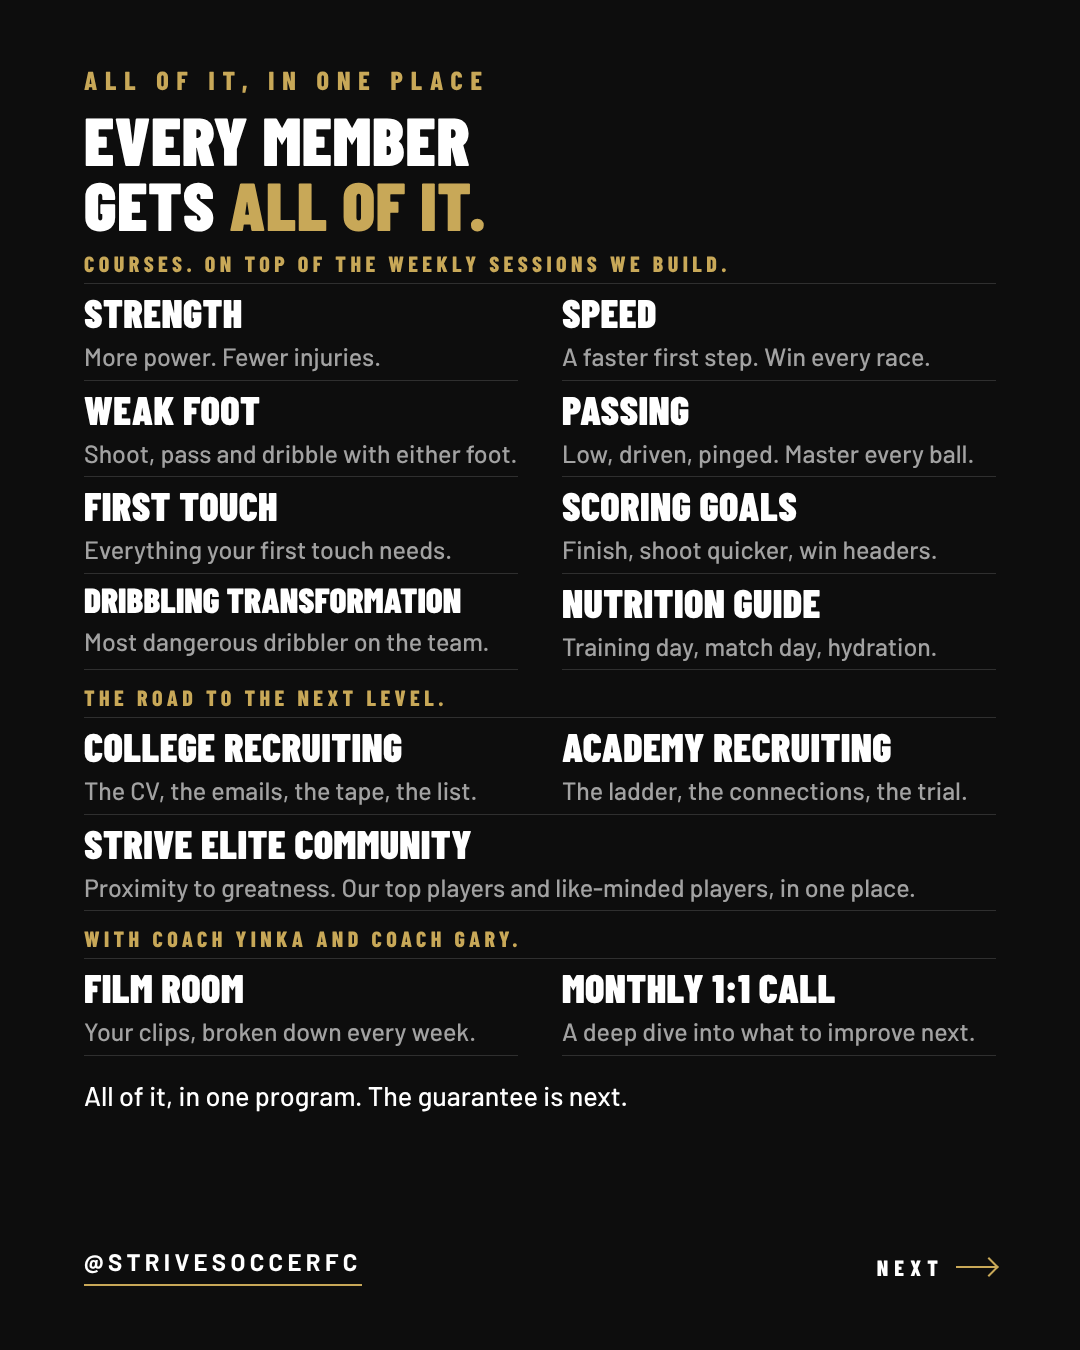
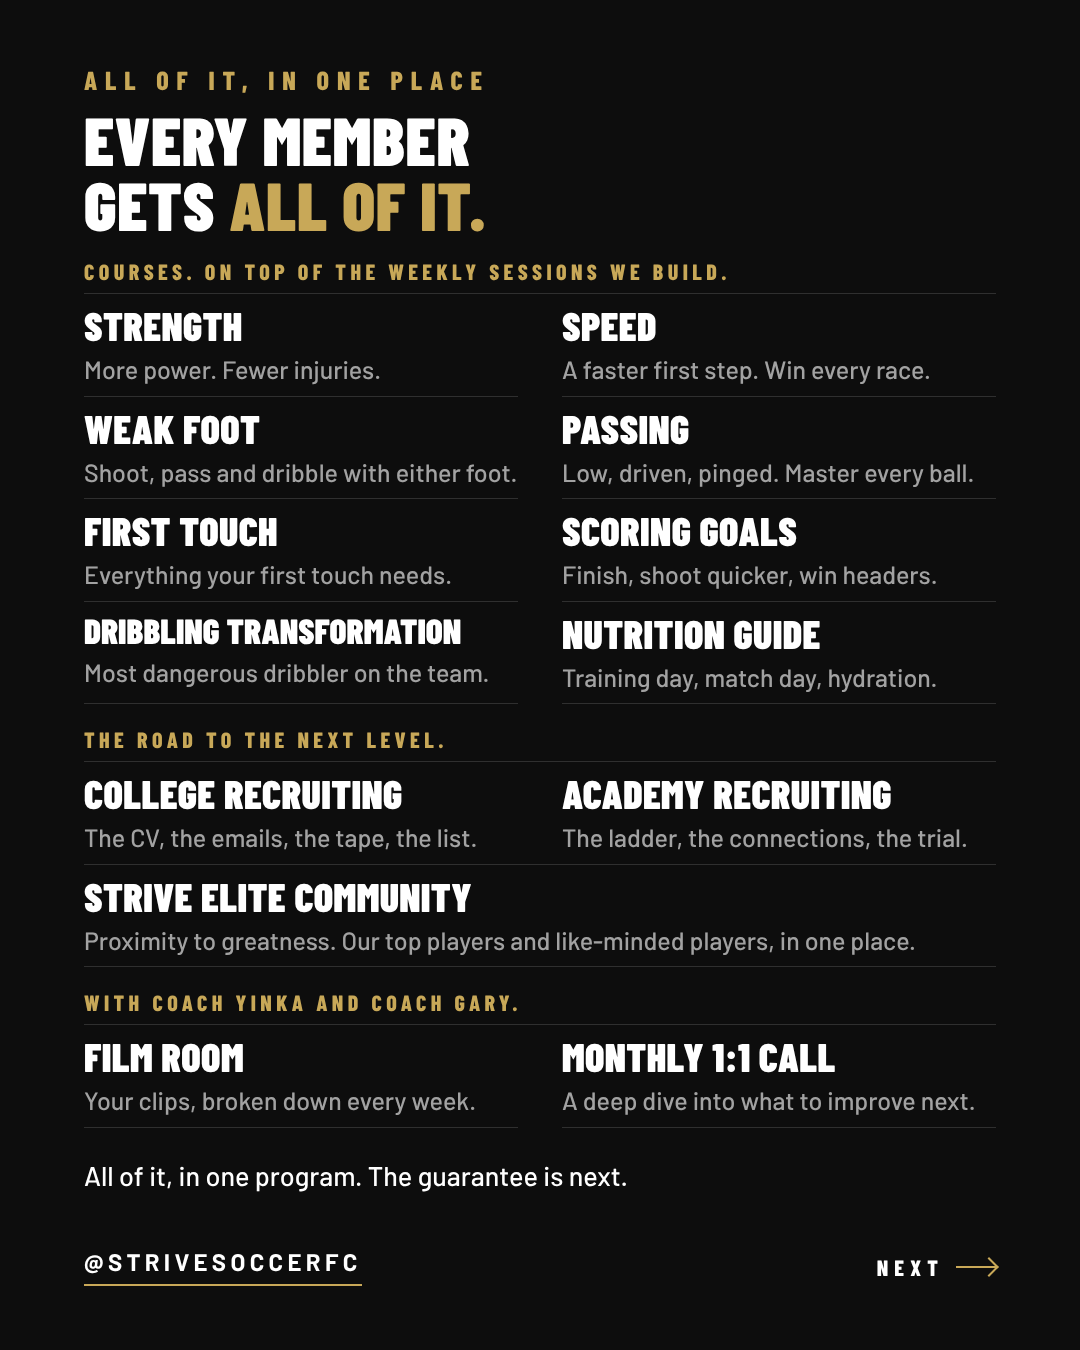
Offer carousel: recap rows spread to fill the slide
Claude-Session: https://claude.ai/code/session_011JsCTTjCbUkHbTuWTKQSXJ

diff --git a/marketing/announcement/offer-post/recap.html b/marketing/announcement/offer-post/recap.html
@@ -9,18 +9,18 @@
 html,body{width:1080px;height:1350px;background:#0d0d0d;overflow:hidden}
 body{font-family:'Barlow',sans-serif;color:#fff;position:relative;padding:64px 84px 0}
 .gold{color:#c8a858}
-.sec{font-family:'Barlow Condensed';font-weight:800;font-size:22px;letter-spacing:.2em;text-transform:uppercase;color:#c8a858;margin:14px 0 0;padding-bottom:7px;border-bottom:1px solid rgba(255,255,255,.14)}
+.sec{font-family:'Barlow Condensed';font-weight:800;font-size:22px;letter-spacing:.2em;text-transform:uppercase;color:#c8a858;margin:22px 0 0;padding-bottom:9px;border-bottom:1px solid rgba(255,255,255,.14)}
 .grid .item:nth-child(-n+2){border-top:0}
 .sec:first-of-type{margin-top:24px}
 .eyebrow{font-family:'Barlow Condensed';font-weight:800;font-size:26px;letter-spacing:.3em;text-transform:uppercase;color:#c8a858}
 h1{font-family:'Barlow Condensed';font-weight:900;font-size:68px;line-height:.95;text-transform:uppercase;margin-top:12px;letter-spacing:.01em}
 .grid{margin-top:0;display:grid;grid-template-columns:1fr 1fr;column-gap:44px}
-.item{padding:8px 0 7px;border-top:1px solid rgba(255,255,255,.14)}
+.item{padding:11px 0 10px;border-top:1px solid rgba(255,255,255,.14)}
 .item b{display:block;font-family:'Barlow Condensed';font-weight:900;font-size:40px;line-height:1;text-transform:uppercase;letter-spacing:.01em}
 .item p{margin-top:8px;font-size:25px;line-height:1.3;color:rgba(255,255,255,.62)}
 .item.last{border-bottom:1px solid rgba(255,255,255,.14)}
 .item.wide{grid-column:1/-1}
-.all{margin-top:22px;font-size:27px;line-height:1.32;color:#fff;font-weight:500}
+.all{margin-top:30px;font-size:27px;line-height:1.32;color:#fff;font-weight:500}
 .price{margin-top:12px;font-family:'Barlow Condensed';font-weight:800;font-size:34px;line-height:1.1;text-transform:uppercase;letter-spacing:.02em}
 .price span{color:#c8a858}
 .bar{position:absolute;left:84px;right:84px;bottom:64px;display:flex;align-items:center;justify-content:space-between}

diff --git a/CLAUDE.md b/CLAUDE.md
@@ -3585,6 +3585,16 @@ commit.
       standalone post and the caption. Public wording only: the course
       inside the app still says director and tryout in its own pages
       (his call whether those follow). Sent.
+      THEN (Coach Yinka, with a screenshot of the recap inside his
+      editor: "The bottom space means it's not spread out as best as
+      it can no?"): the RECAP's rows were bunched at the top with a
+      dead strip above the footer. Row padding 8/7 to 11/10, section
+      gaps 14 to 22 px, the closing line's margin 22 to 30 px, so the
+      grid fills the slide and a clear gap sits above the handle. A
+      first try at 13/12 pushed the closing line onto the handle and
+      was pulled back. His screenshot still showed "the director, the
+      tryout", so his editor held the earlier export: he uses the
+      re-sent recap.png. Sent.
 
 ## Growth target (stamped Sept 19, Coach Yinka's own call)
 
